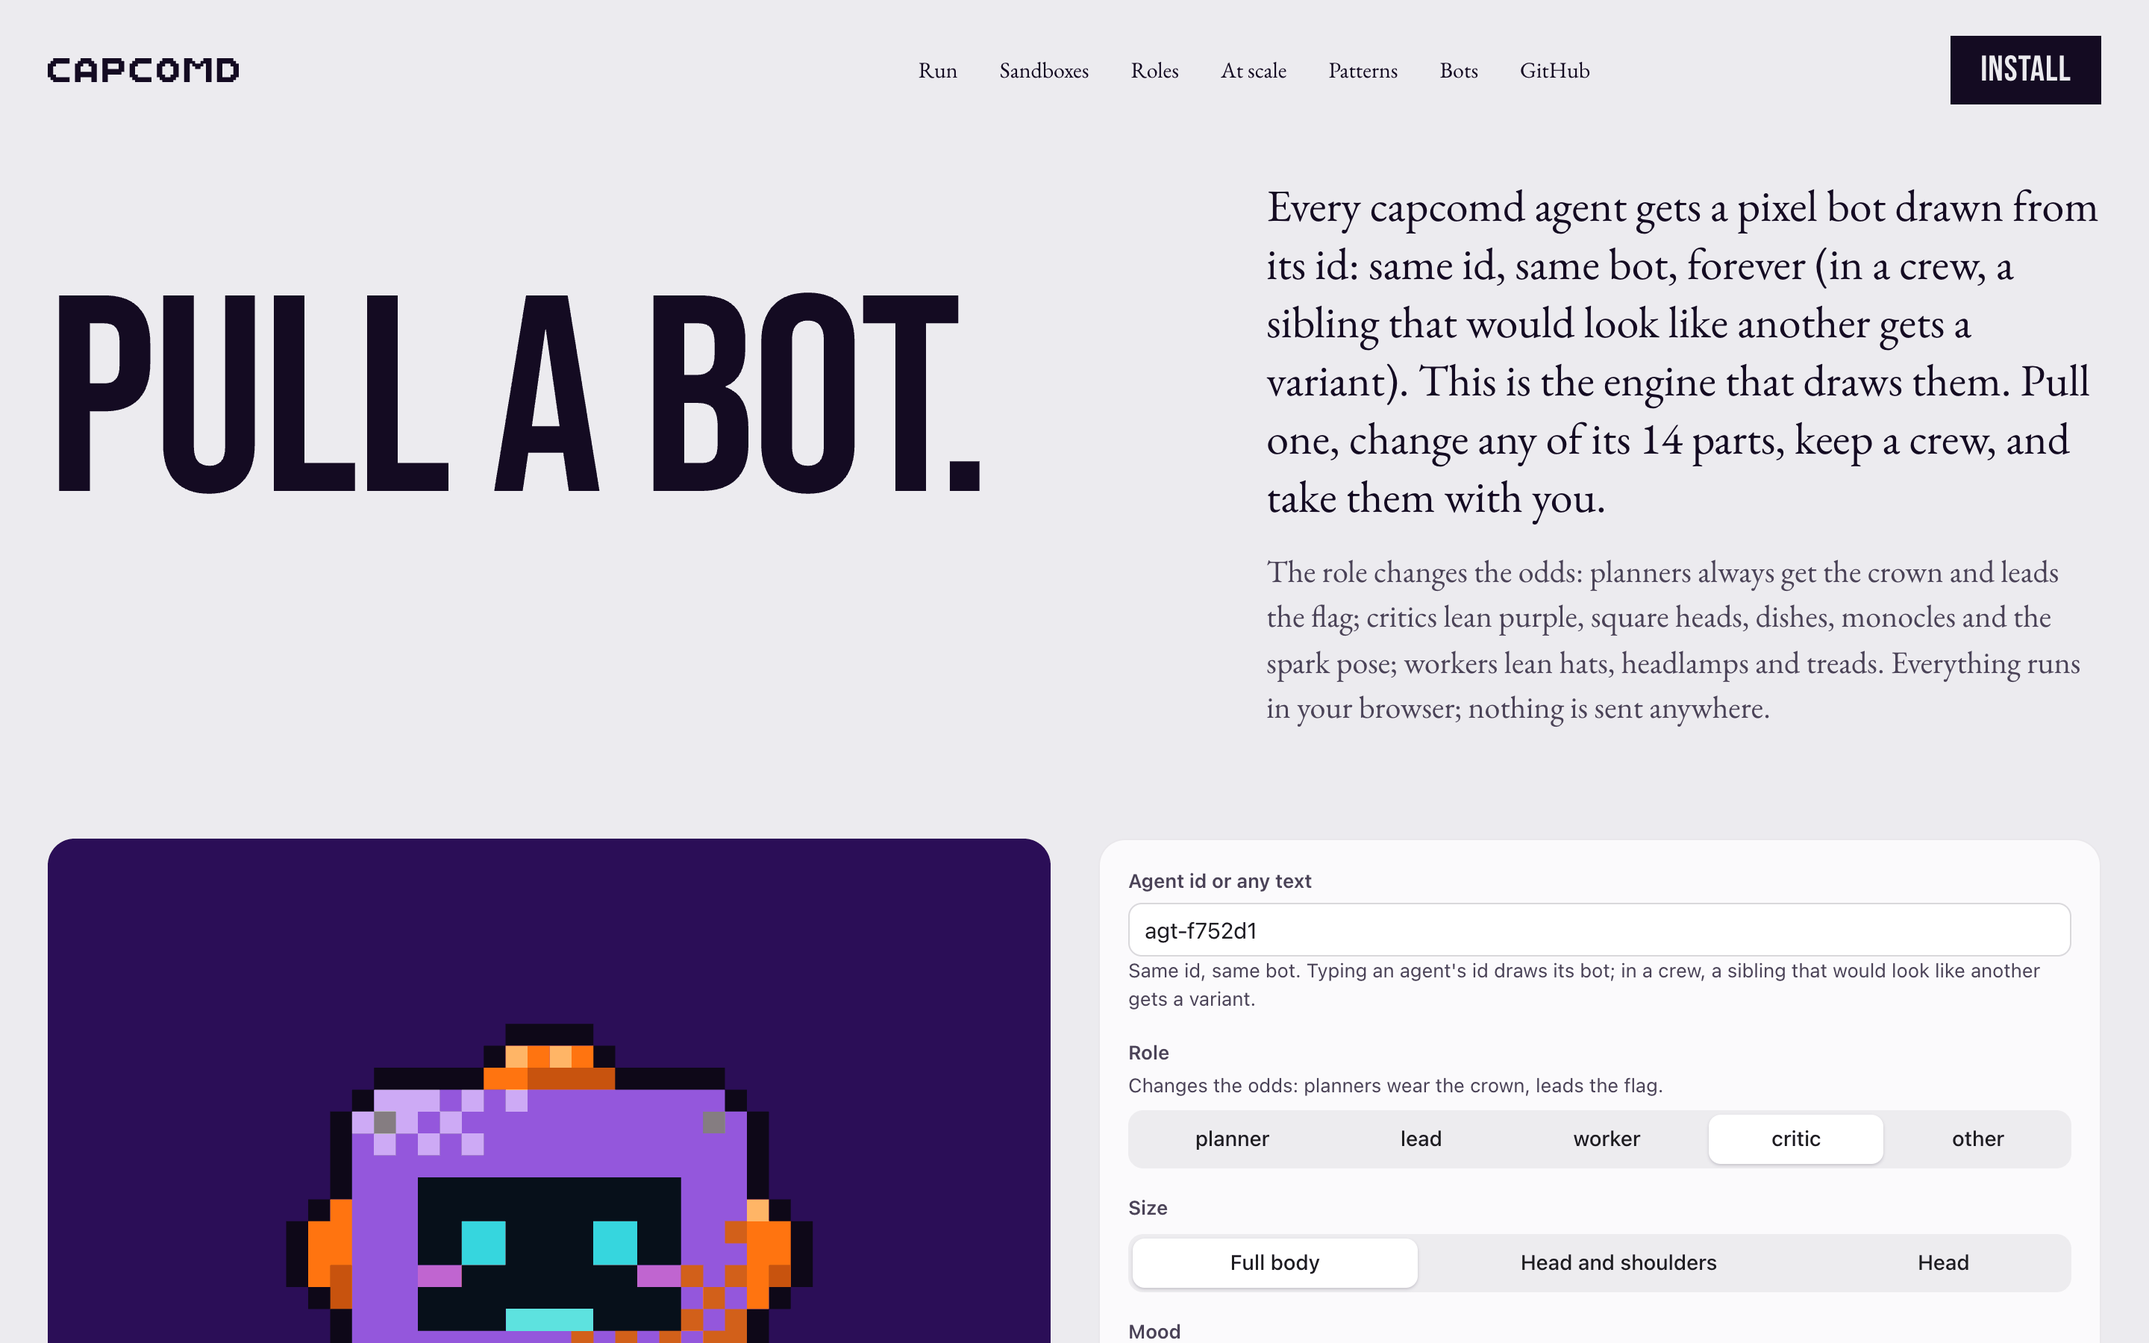
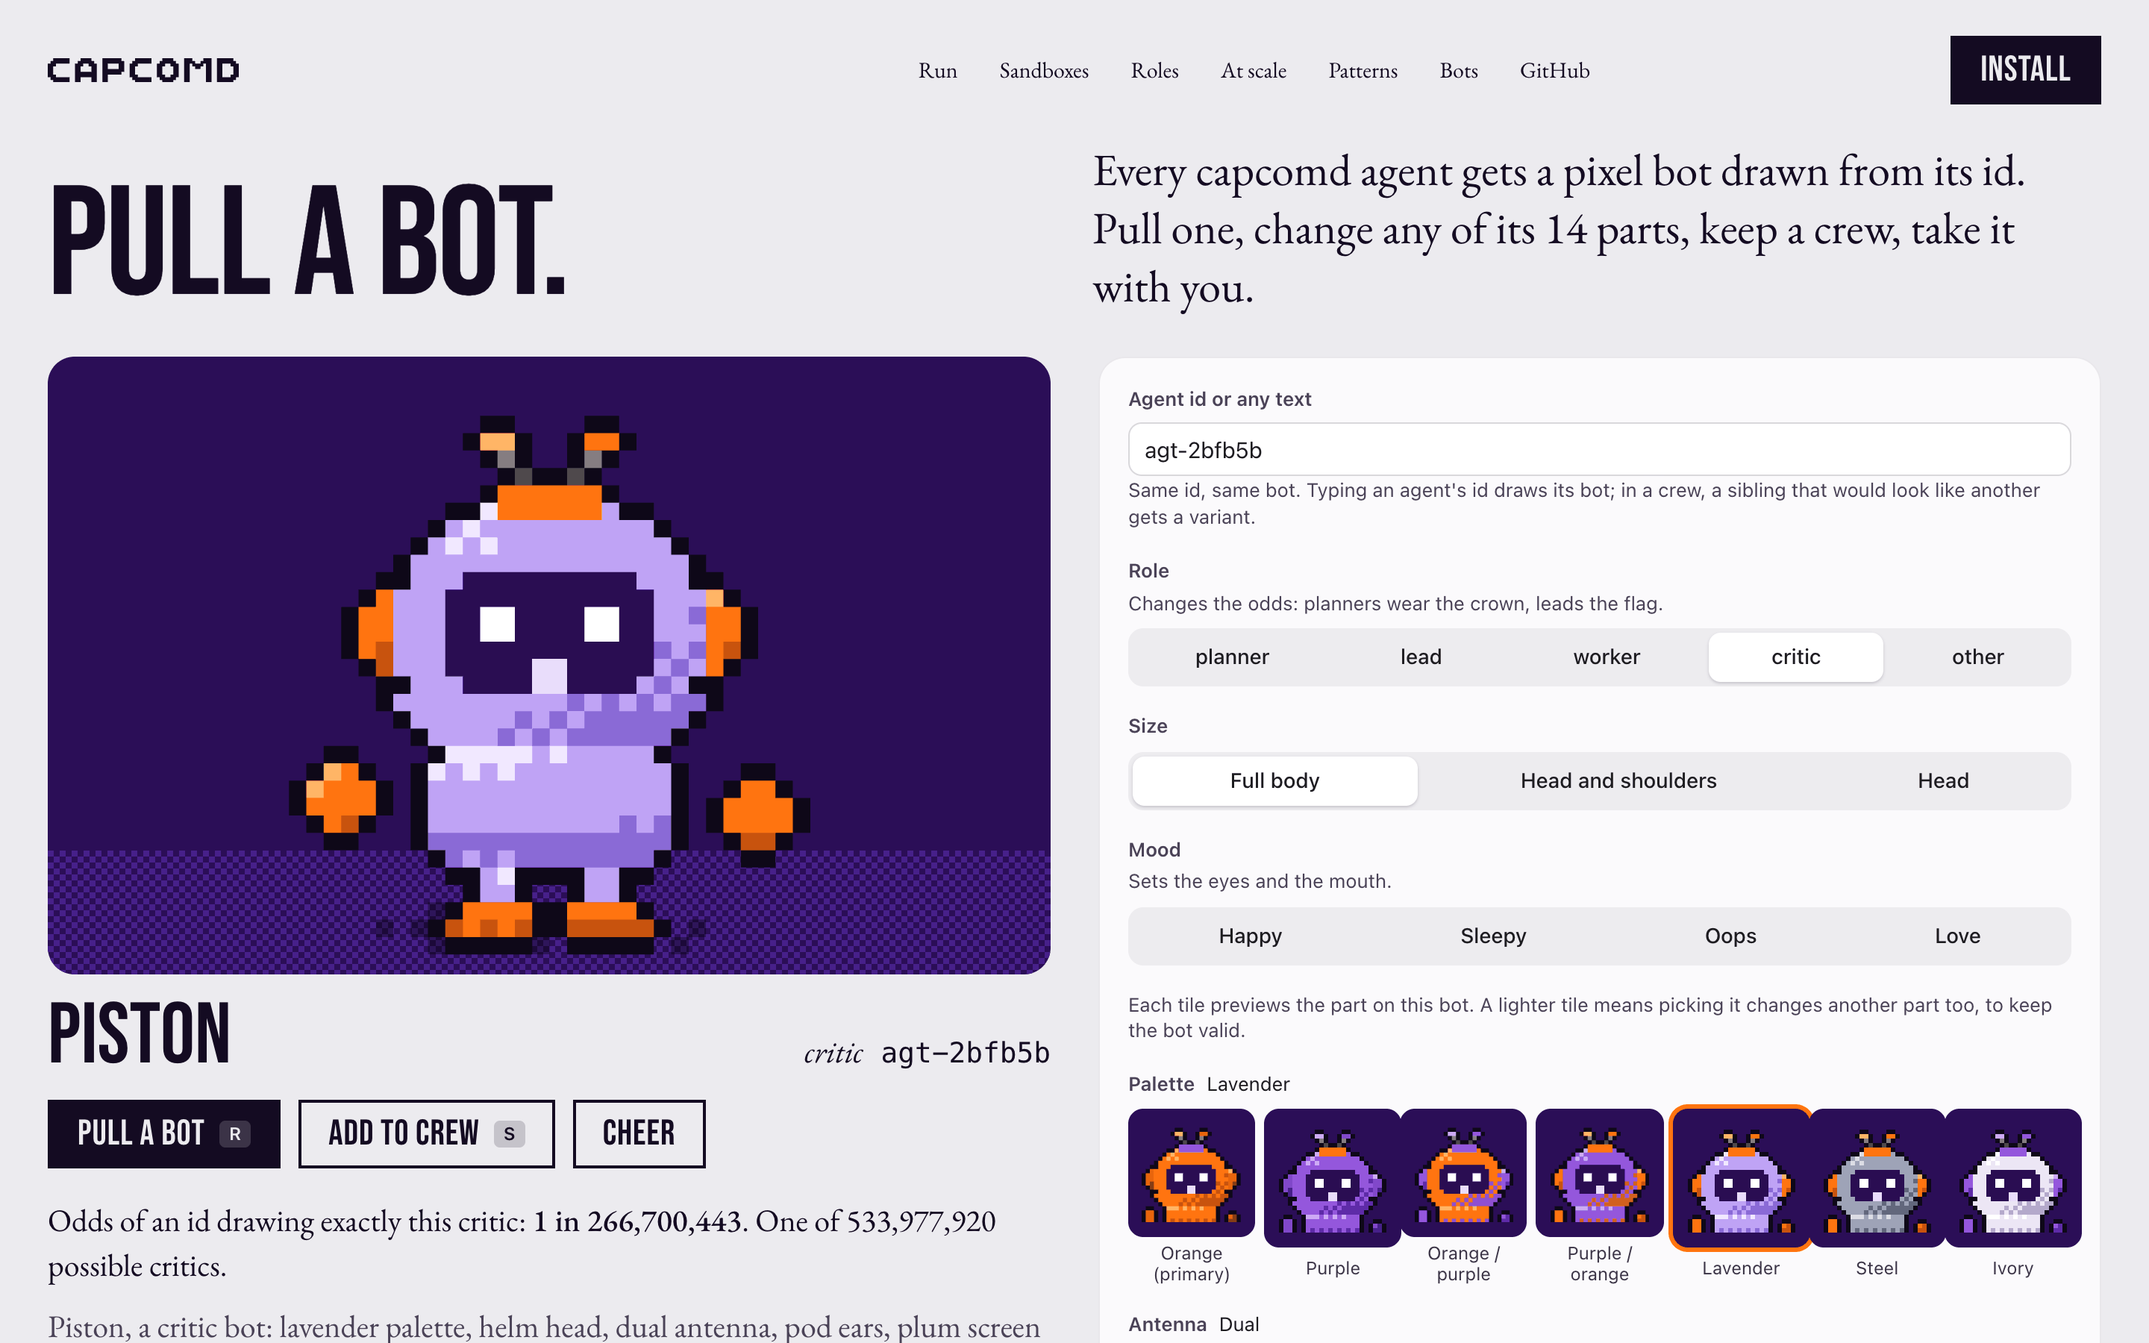
site: deploy on Vercel at capcomd.vercel.app; brand notice; /bots stage above the fold
SITE_URL is https://capcomd.vercel.app (canonical, Open Graph, robots,
sitemap). The README documents the Vercel project settings (Root Directory
site, Bun install, next build, Node 20.9+); no vercel.json is needed for the
static export. The owner's brand notice is in the footer and on /bots next to
download and share. On /bots the intro is condensed so the bot and the pull
button are in the first screen at 1440 and 390; the longer notes move to a
"How bots are drawn" section.

diff --git a/site/app/globals.css b/site/app/globals.css
@@ -531,25 +531,24 @@ html:not(.js) .stage__title { display: block; }
   .button--ghost { background: transparent; color: var(--color-ink); box-shadow: inset 0 0 0 2px var(--color-ink); } /* taste-skill-ignore: the secondary button is an outline, the press style of the page's buttons */
   .button--ghost:hover { background: var(--color-ink); color: var(--color-paper); }
   .button kbd { margin-left: 10px; font: 600 12px/1 var(--font-ui); padding: 3px 6px; border-radius: 4px; background: color-mix(in srgb, currentColor 18%, transparent); }
-  .pg-head__copy { display: grid; grid-template-columns: repeat(12, 1fr); gap: 16px 24px; padding: 24px var(--spacing-gutter) 72px; align-items: end; }
-  .pg-head__title { grid-column: 1 / span 7; margin: 0; font: 400 clamp(5rem, 13vw, 15rem)/0.84 var(--font-display); text-transform: uppercase; letter-spacing: -0.01em; }
-  .pg-head__lead { grid-column: 8 / span 5; margin: 0; font-size: var(--text-lead); line-height: 1.3; }
-  .pg-head__note { grid-column: 8 / span 5; margin: 0; font-size: var(--text-body); color: var(--color-muted); }
+  .pg-head__copy { display: grid; grid-template-columns: repeat(12, 1fr); gap: 12px 24px; padding: 0 var(--spacing-gutter) 28px; align-items: end; }
+  .pg-head__title { grid-column: 1 / span 6; margin: 0; font: 400 clamp(3.5rem, 7.2vw, 8rem)/0.86 var(--font-display); text-transform: uppercase; letter-spacing: -0.01em; }
+  .pg-head__lead { grid-column: 7 / span 6; margin: 0; font-size: var(--text-lead); line-height: 1.3; }
   .pg-main { padding: 0 var(--spacing-gutter) 120px; }
 
   .pg { display: grid; grid-template-columns: repeat(12, 1fr); gap: 32px; align-items: start; }
   .pg__stage { grid-column: 1 / span 6; position: sticky; top: 16px; }
-  .pg__slot { position: relative; aspect-ratio: 1 / 0.86; background: var(--color-plum); border-radius: 18px; overflow: clip; display: grid; place-items: end center; }
+  .pg__slot { position: relative; height: clamp(300px, 46vh, 560px); background: var(--color-plum); border-radius: 18px; overflow: clip; display: grid; place-items: end center; }
   .pg__slot .floor { height: 20%; }
-  .pg__bot { position: relative; width: 70%; margin-bottom: 4%; }
-  .pg__bot--small, .pg__bot--xs { width: 52%; margin-bottom: 14%; }
-  .pg__bot svg { width: 100%; height: auto; }
+  .pg__bot { position: relative; height: 90%; margin-bottom: 2%; }
+  .pg__bot--small, .pg__bot--xs { height: 64%; margin-bottom: 12%; }
+  .pg__bot svg { width: auto; height: 100%; }
   .pg__confetti { position: absolute; inset: 0 0 auto; width: 100%; height: 70%; }
-  .pg__id { display: flex; align-items: baseline; justify-content: space-between; gap: 16px; margin-top: 20px; }
-  .pg__name { margin: 0; font: 400 clamp(3rem, 5vw, 5rem)/0.9 var(--font-display); text-transform: uppercase; }
+  .pg__id { display: flex; align-items: baseline; justify-content: space-between; gap: 16px; margin-top: 16px; }
+  .pg__name { margin: 0; font: 400 clamp(2.75rem, 4vw, 4.5rem)/0.9 var(--font-display); text-transform: uppercase; }
   .pg__meta { margin: 0; display: flex; gap: 12px; align-items: baseline; font-size: var(--text-body); }
   .pg__meta span { font-style: italic; }
-  .pg__actions { display: flex; flex-wrap: wrap; gap: 12px; margin-top: 20px; }
+  .pg__actions { display: flex; flex-wrap: wrap; gap: 12px; margin-top: 16px; }
   .pg__actions .button { grid-column: auto; justify-self: start; }
   .pg__odds { margin: 20px 0 0; font-size: var(--text-body); }
   .pg__odds b { font-weight: 500; }
@@ -619,6 +618,9 @@ html:not(.js) .stage__title { display: block; }
   .pg__legend-note { margin: 18px 0 0; }
   .pg__keys kbd, .pg-crew__empty kbd { font: 600 12px/1 var(--font-ui); padding: 3px 6px; border-radius: 4px; background: var(--color-surface); color: var(--color-ink); }
   .pg__noscript { font-size: var(--text-body); }
+  .pg__brand { margin: 28px 0 0; font-size: var(--text-small); color: var(--color-muted); }
+  .pg-about { margin-top: 160px; }
+  @media (max-width: 760px) { .pg-about { margin-top: 96px; } .pg__id { flex-direction: row; align-items: baseline; } .pg__actions .button { height: 44px; } }
 
   @media (prefers-reduced-motion: no-preference) {
     .pg__bot { animation: pg-drop 220ms var(--ease-out); }
@@ -636,16 +638,13 @@ html:not(.js) .stage__title { display: block; }
     .pg__stage { position: static; }
     .pg__panel { margin-top: 32px; }
     .pg-head__title { grid-column: 1 / -1; }
-    .pg-head__lead, .pg-head__note { grid-column: 1 / span 9; }
+    .pg-head__lead { grid-column: 1 / span 9; }
   }
   @media (max-width: 760px) {
-    .pg-head__copy { display: block; padding-bottom: 40px; }
-    .pg-head__title { font-size: 21vw; }
-    .pg-head__lead { margin-top: 20px; font-size: 1.25rem; }
-    .pg-head__note { margin-top: 12px; }
-    .pg__slot { aspect-ratio: auto; height: 220px; border-radius: 0 0 14px 14px; margin: 0 calc(-1 * var(--spacing-gutter)); }
-    .pg__bot { width: auto; height: 86%; margin-bottom: 2%; }
-    .pg__bot svg { width: auto; height: 100%; }
+    .pg-head__copy { display: block; padding-bottom: 20px; }
+    .pg-head__title { font-size: 17vw; }
+    .pg-head__lead { margin-top: 10px; font-size: 1.125rem; }
+    .pg__slot { height: 230px; border-radius: 0 0 14px 14px; margin: 0 calc(-1 * var(--spacing-gutter)); }
     .pg__id { flex-direction: column; align-items: start; gap: 6px; }
     .pg__panel { padding: 14px; border-radius: 14px; }
     .pg__grid { grid-template-columns: repeat(auto-fill, minmax(64px, 1fr)); }

diff --git a/site/app/bots/page.tsx b/site/app/bots/page.tsx
@@ -29,14 +29,20 @@ export default function BotsPage() {
       <header className="pg-head">
         <Nav home={false} current="bots" />
         <div className="pg-head__copy">
-          <h1 className="pg-head__title" data-reveal>Pull a bot.</h1>
-          <p className="pg-head__lead" data-reveal style={{ ["--d" as string]: "80ms" }}>Every capcomd agent gets a pixel bot drawn from its id: same id, same bot, forever (in a crew, a sibling that would look like another gets a variant). This is the engine that draws them. Pull one, change any of its 14 parts, keep a crew, and take them with you.</p>
-          <p className="pg-head__note" data-reveal style={{ ["--d" as string]: "140ms" }}>The role changes the odds: planners always get the crown and leads the flag; critics lean purple, square heads, dishes, monocles and the spark pose; workers lean hats, headlamps and treads. Everything runs in your browser; nothing is sent anywhere.</p>
+          <h1 className="pg-head__title">Pull a bot.</h1>
+          <p className="pg-head__lead">Every capcomd agent gets a pixel bot drawn from its id. Pull one, change any of its 14 parts, keep a crew, take it with you.</p>
         </div>
       </header>
       <main id="main" tabIndex={-1} className="pg-main">
         <noscript><p className="pg__noscript">The playground needs JavaScript. Here is one bot, drawn from <code>agt-7e9410</code>.</p></noscript>
         <Playground initialSeed="agt-7e9410" counts={counts} />
+        <section className="pg-about" aria-labelledby="pg-about-title">
+          <h2 className="big" id="pg-about-title" data-reveal><span>How bots</span> <span>are drawn.</span></h2>
+          <div className="two">
+            <p data-reveal>Same id, same bot, forever: the engine hashes the agent&apos;s id and picks each of the 14 parts in a fixed order, so any copy of capcomd draws the same bot. In a crew, a sibling that would look like another gets a variant, so the app can show a different bot than this page for the same id.</p>
+            <p data-reveal style={{ ["--d" as string]: "60ms" }}>The role changes the odds: planners always get the crown and leads the flag; critics lean purple, square heads, dishes, monocles and the spark pose; workers lean hats, headlamps and treads. Everything here runs in your browser; nothing is sent anywhere.</p>
+          </div>
+        </section>
       </main>
       <Footer />
       <Reveals />

diff --git a/site/components/Footer.tsx b/site/components/Footer.tsx
@@ -15,7 +15,7 @@ export function Footer() {
       <Wordmark className="foot__mark col-span-3 block w-40 text-ink [&_svg]:h-auto [&_svg]:w-full max-[760px]:w-32" />
       <ul className="col-span-3 col-start-5 m-0 grid list-none gap-1.5 p-0 max-[760px]:mt-7">{LINKS.map(([label, href]) => <li key={label}><a href={href}>{label}</a></li>)}</ul>
       <p className="col-span-5 col-start-8 m-0 text-small max-[760px]:mt-7">
-        capcomd is open source under the <a href={`${SITE.repo}/blob/main/LICENSE`}>MIT License</a>, © Marvin Amador Campos. Type: Bebas Neue and EB Garamond, both under the SIL Open Font License (<a href="/fonts/OFL-BebasNeue.txt">Bebas Neue</a>, <a href="/fonts/OFL-EBGaramond.txt">EB Garamond</a>).
+        The capcomd name, bots and brand are © 2026 Marvin Amador Campos. capcomd&apos;s code is <a href={`${SITE.repo}/blob/main/LICENSE`}>MIT-licensed</a>. Type: Bebas Neue and EB Garamond, both under the SIL Open Font License (<a href="/fonts/OFL-BebasNeue.txt">Bebas Neue</a>, <a href="/fonts/OFL-EBGaramond.txt">EB Garamond</a>).
       </p>
     </footer>
   );

diff --git a/site/components/playground/Playground.tsx b/site/components/playground/Playground.tsx
@@ -4,6 +4,7 @@
 // of its 14 parts, keep a crew (localStorage, optional), download SVG or PNG, share a link that redraws it exactly.
 import { useCallback, useDeferredValue, useEffect, useMemo, useRef, useState, type ReactNode } from "react";
 import { CATALOG, MOODS, botGrid, botTraits, gridSvg, rng, withOverrides, type Mood } from "@/lib/vendor/bot-avatar.js";
+import { SITE } from "@/lib/site";
 import {
   PART_SLOTS, ROLES, SLOT_LABEL, botPng, crewPng, decode, describe, download, encode, fileName, fits, odds, partOf,
   randomSeed, setPart, type Backdrop, type BotTraits, type PartSlot, type Role, type Size,
@@ -223,6 +224,7 @@ export function Playground({ initialSeed, counts }: { initialSeed: string; count
         </div>
       </section>
 
+      <p className="pg__brand">{SITE.brand}</p>
       <section className="pg-crew" aria-labelledby="pg-crew-title">
         <div className="pg-crew__head">
           <h2 className="big" id="pg-crew-title" data-reveal><span>Your crew.</span></h2>

diff --git a/site/lib/version.ts b/site/lib/version.ts
@@ -1,7 +1,9 @@
 import "server-only";
-import { readFileSync } from "node:fs";
+import { existsSync, readFileSync } from "node:fs";
 import { join } from "node:path";
 
-/** capcomd's version as "major.minor", read from the repository's package.json at build time. */
-export const VERSION: string = (JSON.parse(readFileSync(join(process.cwd(), "..", "package.json"), "utf8")) as { version: string })
-  .version.split(".").slice(0, 2).join(".");
+// capcomd's version as "major.minor", read at build time from the repository's root package.json (one level above
+// site/). On Vercel this needs "Include files outside the root directory in the Build Step" (on by default).
+const pkg = join(process.cwd(), "..", "package.json");
+if (!existsSync(pkg)) throw new Error(`site: can't read capcomd's version from ${pkg}; build from site/ inside the capcomd repository`);
+export const VERSION: string = (JSON.parse(readFileSync(pkg, "utf8")) as { version: string }).version.split(".").slice(0, 2).join(".");

diff --git a/site/lib/site.ts b/site/lib/site.ts
@@ -1,6 +1,5 @@
-// The one place the site's origin is set. TODO(owner): replace the placeholder with the real domain once it's
-// decided (no trailing slash). It's used for canonical, Open Graph, robots and sitemap URLs only.
-export const SITE_URL = "https://capcomd.example";
+// The one place the site's origin is set (no trailing slash): canonical, Open Graph, robots and sitemap URLs.
+export const SITE_URL = "https://capcomd.vercel.app";
 
 export const SITE = {
   name: "capcomd",
@@ -9,4 +8,6 @@ export const SITE = {
   description:
     "Durable orchestration for swarms of coding agents: one VM and branch per agent, operator-owned checks and a reviewer agent, exactly-once merges of the commit that passed.",
   repo: "https://github.com/MarvinAmador7/capcomd",
+  /** The brand notice, as the owner states it. */
+  brand: "The capcomd name, bots and brand are © 2026 Marvin Amador Campos. capcomd's code is MIT-licensed.",
 } as const;

diff --git a/site/README.md b/site/README.md
@@ -31,7 +31,7 @@ Stack: Next.js 16.4.3, React 19.3.1, Tailwind CSS 4.3.3 (`@tailwindcss/postcss`)
 | `app/icon.svg` | The favicon: the menu bar bot mark (`MENU_BAR_MARK` in packages/bot-avatar) on a plum tile. |
 | `app/robots.ts`, `app/sitemap.ts` | `robots.txt` and `sitemap.xml`, written at build time. |
 | `components/` | One component per section. Server components by default, so the copy is in the static HTML and works without JS. The client parts are only `crew.tsx` (the crew, redrawn per visit and on "Draw another", and the typed goal), `RunAccordion.tsx` (the stages, an APG accordion of disclosure buttons) and `Reveals.tsx` (scroll entrances). |
-| `lib/site.ts` | **The site's origin, one value. It's a placeholder (`https://capcomd.example`) until the domain is decided (TODO).** Also the title and description. |
+| `lib/site.ts` | The site's origin (`https://capcomd.vercel.app`, one value), the title, the description, and the brand notice. |
 | `lib/crew.ts`, `lib/marks.ts` | The crew's roles and default seed (`run_7e9410`, what the static HTML is drawn with), the wordmark, the menu bar mark. |
 | `lib/vendor/bot-avatar.js` | packages/bot-avatar, bundled as one ESM file by `bun run vendor` (with hand-written types beside it). |
 | `lib/version.ts` | capcomd's version for "Early release, 0.6", read from the repo's root `package.json` at build time. |
@@ -46,11 +46,27 @@ Stack: Next.js 16.4.3, React 19.3.1, Tailwind CSS 4.3.3 (`@tailwindcss/postcss`)
 Run every command from `site/`: `lib/version.ts` reads `../package.json` and `next.config.ts` roots Turbopack
 at the current folder, both relative to it.
 
-## Hosting
+## Deploying on Vercel
 
-Serve `out/` as is. Set `SITE_URL` in `lib/site.ts` first, and use `404.html` as the not-found page. Turn on gzip
-or brotli. `_next/static/` is content-hashed, so it can be cached for good. None of this is configured here, because
-no host is chosen yet.
+The site is meant for https://capcomd.vercel.app (`SITE_URL` in `lib/site.ts`). It deploys as a normal Next.js
+project. With `output: "export"`, Vercel runs `next build` and serves the exported files. No `vercel.json` is needed:
+Vercel serves `404.html` for missing paths, and it already caches `_next/static/` for good.
+
+Project settings (Vercel → New Project → import the capcomd repository):
+
+| Setting | Value |
+|---|---|
+| Framework preset | Next.js |
+| Root Directory | `site` |
+| Include files outside the root directory in the Build Step | On (the default). The build reads capcomd's version from the repo's root `package.json`. |
+| Install command | `bun install --frozen-lockfile` (Vercel picks Bun from `site/bun.lock`; npm also works with `npm install`, but then there's no lockfile pinning) |
+| Build command | `bun run build` (the default `next build` works too) |
+| Output directory | Leave the default |
+| Node.js version | 22.x (Next.js 16 needs 20.9 or later; `engines` in `package.json` says so) |
+| Environment variables | None |
+
+Before building, check that the domain in `lib/site.ts` is the one the project gets. The build fetches the two
+Google fonts once to self-host them, so it needs network access, which Vercel builds have.
 
 ## Note for the repo
 

diff --git a/site/CONTENT.md b/site/CONTENT.md
@@ -46,9 +46,12 @@ illustrations, not captures, and they show the menu bar app as it is on `main` (
 
 ## Open decisions (defaults used)
 
-- The domain: `lib/site.ts` → `SITE_URL` is the placeholder `https://capcomd.example`. Canonical, Open Graph,
-  robots and sitemap URLs use it.
-- Hosting: none chosen. `out/` (the Next.js static export) is a plain static folder.
+- The domain: decided. The site is https://capcomd.vercel.app (`SITE_URL` in `lib/site.ts`).
+- Hosting: decided. Vercel, with Root Directory `site` (see README.md). It's still a static export.
+- Brand notice (the owner's wording): "The capcomd name, bots and brand are © 2026 Marvin Amador Campos. capcomd's code is
+  MIT-licensed." It appears in the footer and on /bots next to download and share. Usage terms for downloaded bots
+  are still the owner's to decide.
+- Not built yet: per-bot share previews (would mean leaving the static export) and a "random role" pull.
 - Footage: none recorded. The rebuilt panels are the product imagery.
 - The name: the site doesn't explain what CAPCOM means.
 - Bot names: not used. Agents are named by role, plus a short suffix in the panels, as in the app's tree.
